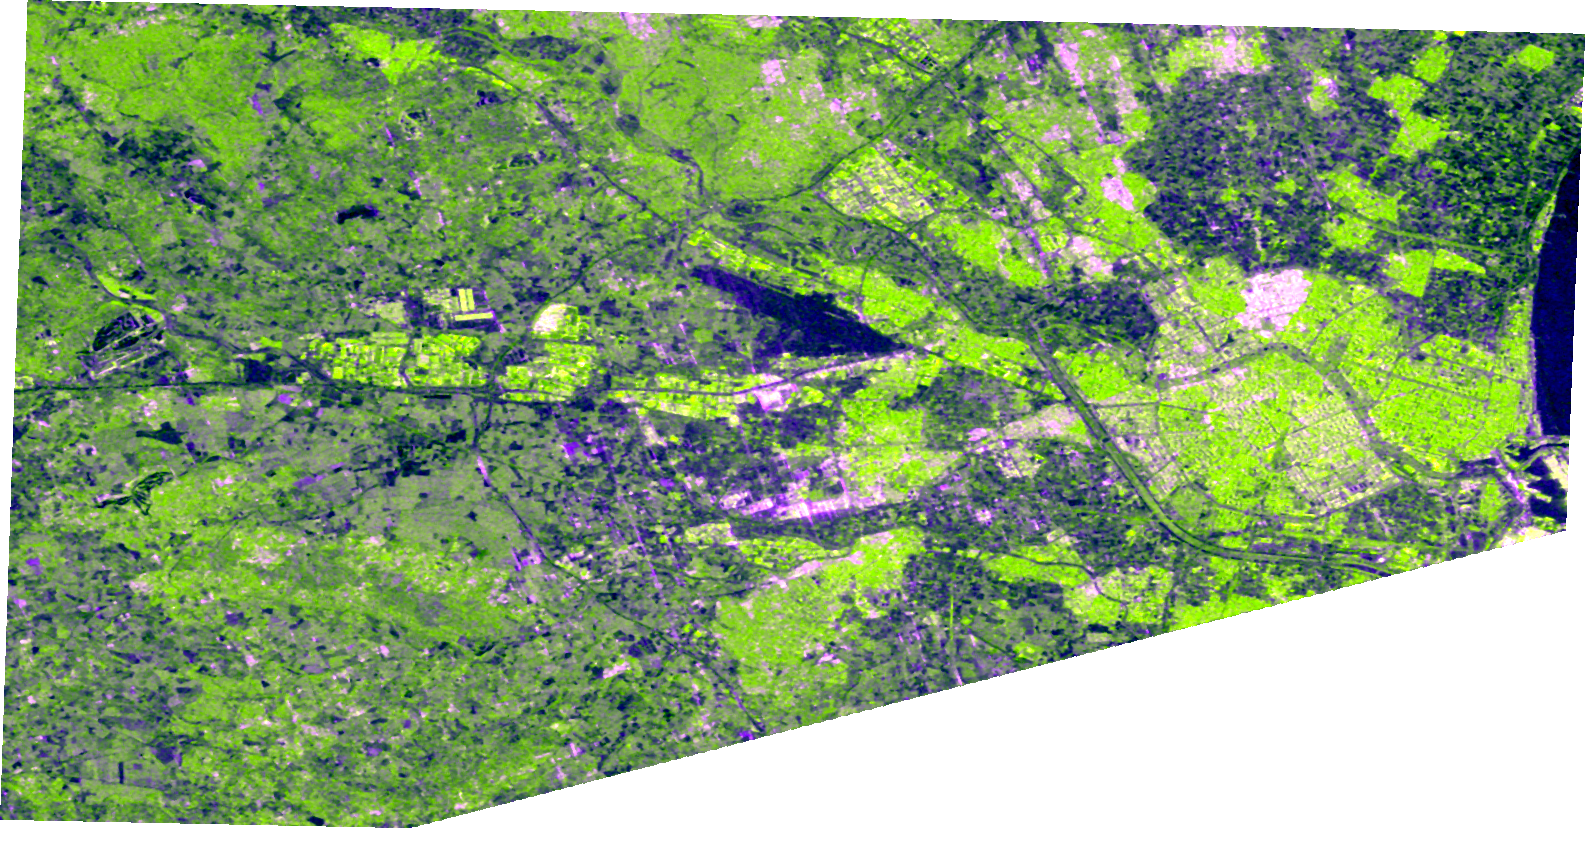
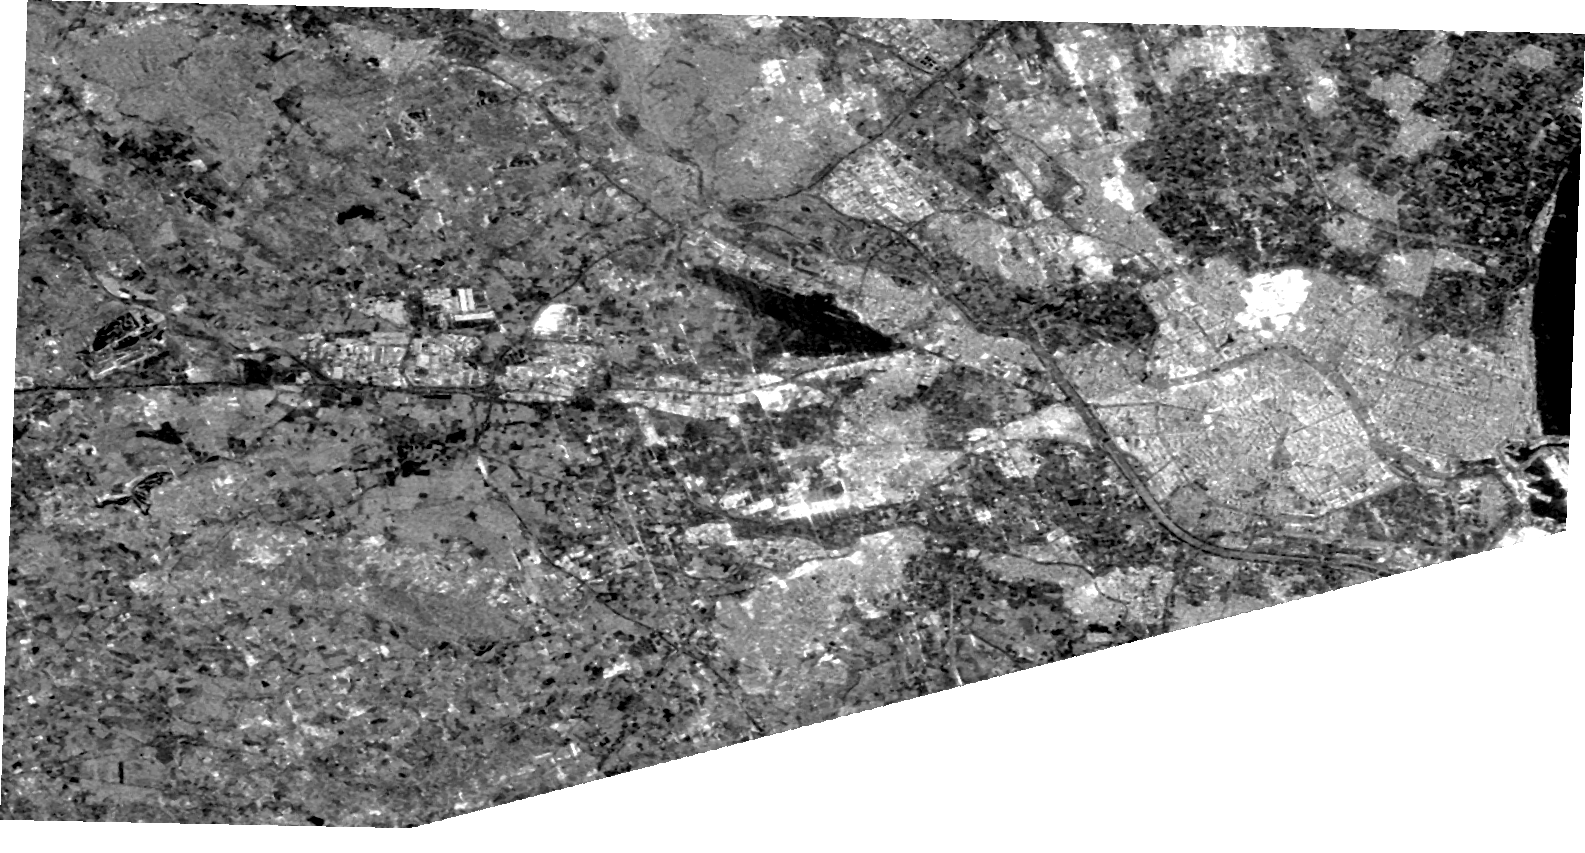
style: monochrome landing page and clearer grayscale radar images

diff --git a/src/components/soc/MissionWelcome.tsx b/src/components/soc/MissionWelcome.tsx
@@ -1,27 +1,17 @@
 'use client';
 
-import {
-  ArrowRight,
-  CloudRain,
-  Crosshair,
-  Lightbulb,
-  MousePointerClick,
-  Orbit,
-  Radar,
-  Satellite,
-  ScanLine,
-  Trophy,
-} from 'lucide-react';
+import { ArrowRight, CloudRain, Lightbulb, MousePointerClick, Orbit, Radar, Satellite, ScanLine, Trophy } from 'lucide-react';
 import { soundFX } from '@/lib/audio';
 
 interface MissionWelcomeProps {
   onBegin: () => void;
 }
 
+// Monochrome landscape style: black, white and greys only. Radar images are monochrome landscapes by nature.
 const STATS = [
-  { icon: Radar, value: 'L-BAND', label: '24 cm radar, sees through clouds and night' },
-  { icon: Orbit, value: '12 DAYS', label: 'NISAR revisits the whole planet' },
-  { icon: Satellite, value: '9 MISSIONS', label: 'From calibration to Earth response' },
+  { icon: Radar, value: 'L-band', label: '24 cm radar, sees through clouds and night' },
+  { icon: Orbit, value: '12 days', label: 'NISAR revisits the whole planet' },
+  { icon: Satellite, value: '9 missions', label: 'From calibration to Earth response' },
 ];
 
 const STEPS = [
@@ -31,21 +21,11 @@ const STEPS = [
   { icon: Trophy, title: 'Earn the flag', text: 'Correct science unlocks the next mission.' },
 ];
 
-function Wave({ className }: { className?: string }) {
-  return (
-    <svg className={className} viewBox="0 0 1200 120" preserveAspectRatio="none" aria-hidden="true">
-      {[0, 1, 2, 3, 4].map((i) => (
-        <path
-          key={i}
-          d={`M0 ${60 + i * 4} C 200 ${10 + i * 6}, 400 ${110 - i * 6}, 600 ${60 + i * 2} S 1000 ${10 + i * 6}, 1200 ${60 - i * 3}`}
-          fill="none"
-          stroke="rgba(56,189,248,0.35)"
-          strokeWidth="1.5"
-        />
-      ))}
-    </svg>
-  );
-}
+const GALLERY = [
+  { src: '/data/merja_zerga/before.png', title: 'Before', date: '25 Oct 2026', text: 'Merja Zerga lagoon, Morocco, end of the dry season.' },
+  { src: '/data/merja_zerga/after.png', title: 'After', date: '6 Nov 2026', text: 'Two days after the first 22 mm of rain.' },
+  { src: '/data/valencia/before.png', title: 'False alarm', date: '23 Oct 2026', text: 'Valencia: the dark strip is the airport runway, not water.' },
+];
 
 export function MissionWelcome({ onBegin }: MissionWelcomeProps) {
   const beginMission = () => {
@@ -54,170 +34,144 @@ export function MissionWelcome({ onBegin }: MissionWelcomeProps) {
   };
 
   return (
-    <main className="min-h-screen w-full cosmic-space-bg bg-[#03060d] text-slate-200">
+    <main className="min-h-screen w-full bg-neutral-950 text-neutral-300">
       {/* Navigation */}
       <header className="mx-auto flex max-w-6xl items-center justify-between px-6 py-6">
         <div className="flex items-center gap-3">
-          <div className="flex h-10 w-10 items-center justify-center rounded-full border border-sky-400/60 text-sky-300">
-            <Satellite className="h-5 w-5" />
-          </div>
-          <span className="text-sm font-black uppercase tracking-[0.3em] text-white">Dancing with the SARs</span>
+          <Satellite className="h-5 w-5 text-white" strokeWidth={1.5} />
+          <span className="text-xs font-medium uppercase tracking-[0.4em] text-white">Dancing with the SARs</span>
         </div>
-        <nav className="hidden items-center gap-8 text-sm text-slate-300 md:flex">
+        <nav className="hidden items-center gap-8 text-xs uppercase tracking-[0.25em] text-neutral-400 md:flex">
           <a href="#mission" className="hover:text-white">Mission</a>
           <a href="#data" className="hover:text-white">Real data</a>
           <a href="#how" className="hover:text-white">How it works</a>
-          <button
-            type="button"
-            onClick={beginMission}
-            className="rounded border border-sky-400/70 px-4 py-1.5 text-sky-200 hover:bg-sky-400/10"
-          >
+          <button type="button" onClick={beginMission} className="border border-white px-4 py-2 text-white hover:bg-white hover:text-black">
             Play
           </button>
         </nav>
       </header>
 
-      {/* Hero */}
-      <section className="relative mx-auto grid max-w-6xl items-center gap-10 px-6 pb-16 pt-6 lg:grid-cols-2 lg:pt-12">
-        <div className="relative z-10">
-          <p className="text-xs font-bold uppercase tracking-[0.35em] text-sky-400">NASA Space Apps 2026 · NISAR</p>
-          <h1 className="mt-5 text-5xl font-black uppercase leading-[1.05] tracking-[0.06em] text-white sm:text-6xl">
-            Read the
-            <br />
-            Earth&apos;s echo
-          </h1>
-          <p className="mt-6 max-w-md text-base leading-relaxed text-slate-300">
-            NISAR, the NASA-ISRO radar satellite, sees the Earth through clouds, smoke and darkness. But radar images are hard to
-            read. In this game, you become an Earth detective: compare real radar images, find what changed, and explain why.
-          </p>
-          <button
-            type="button"
-            onClick={beginMission}
-            className="group mt-8 inline-flex items-center gap-3 rounded-md bg-sky-500 px-7 py-3.5 text-sm font-bold uppercase tracking-[0.15em] text-white shadow-[0_0_30px_rgba(14,165,233,0.35)] transition hover:bg-sky-400"
-          >
-            <Crosshair className="h-5 w-5" />
-            Begin mission
-            <ArrowRight className="h-5 w-5 transition-transform group-hover:translate-x-1" />
-          </button>
-        </div>
-
-        {/* "Radar planet": real NISAR image of Merja Zerga inside a glowing sphere */}
-        <div className="relative mx-auto aspect-square w-full max-w-md">
-          <div className="absolute inset-0 rounded-full bg-sky-500/20 blur-3xl" />
-          <div className="relative h-full w-full overflow-hidden rounded-full border border-sky-400/40 shadow-[0_0_80px_rgba(56,189,248,0.35)]">
-            {/* eslint-disable-next-line @next/next/no-img-element */}
-            <img src="/data/merja_zerga/after.png" alt="NISAR radar image of Merja Zerga, Morocco" className="h-full w-full scale-125 object-cover" />
-            <div className="absolute inset-0 rounded-full bg-[radial-gradient(circle_at_30%_30%,transparent_35%,rgba(3,6,13,0.9)_75%)]" />
+      {/* Hero: full-width monochrome radar landscape */}
+      <section className="relative mx-auto max-w-6xl px-6">
+        <div className="relative overflow-hidden">
+          {/* eslint-disable-next-line @next/next/no-img-element */}
+          <img
+            src="/data/merja_zerga/after.png"
+            alt="NISAR radar landscape of Merja Zerga, Morocco"
+            className="h-[70vh] min-h-[420px] w-full object-cover grayscale"
+          />
+          <div className="absolute inset-0 bg-gradient-to-r from-neutral-950 via-neutral-950/70 to-transparent" />
+          <div className="absolute inset-0 bg-gradient-to-t from-neutral-950 via-transparent to-transparent" />
+          <div className="absolute inset-0 flex flex-col justify-center px-6 sm:px-12">
+            <p className="text-[11px] uppercase tracking-[0.45em] text-neutral-400">NASA Space Apps 2026 · NISAR</p>
+            <h1 className="mt-6 text-5xl font-light uppercase leading-[1.05] tracking-[0.12em] text-white sm:text-7xl">
+              Read the
+              <br />
+              <span className="font-semibold">Earth&apos;s echo</span>
+            </h1>
+            <p className="mt-6 max-w-md text-sm leading-relaxed text-neutral-300 sm:text-base">
+              NISAR, the NASA-ISRO radar satellite, sees the Earth through clouds, smoke and darkness. Radar images are hard to
+              read. In this game, you become an Earth detective: compare real radar images, find what changed, and explain why.
+            </p>
+            <button
+              type="button"
+              onClick={beginMission}
+              className="group mt-9 inline-flex w-fit items-center gap-3 bg-white px-7 py-3.5 text-xs font-semibold uppercase tracking-[0.3em] text-black hover:bg-neutral-200"
+            >
+              Begin mission
+              <ArrowRight className="h-4 w-4 transition-transform group-hover:translate-x-1" />
+            </button>
           </div>
-          <span className="absolute bottom-4 left-1/2 -translate-x-1/2 whitespace-nowrap rounded-full border border-sky-400/40 bg-[#03060d]/80 px-3 py-1 text-[10px] uppercase tracking-[0.2em] text-sky-300">
-            Real NISAR data · Merja Zerga, Morocco
+          <span className="absolute bottom-4 right-4 text-[10px] uppercase tracking-[0.3em] text-neutral-500">
+            Real NISAR L-band image · Merja Zerga, Morocco
           </span>
         </div>
       </section>
 
-      {/* Stat cards */}
-      <section className="relative">
-        <Wave className="absolute inset-x-0 top-1/2 h-24 w-full -translate-y-1/2" />
-        <div className="relative mx-auto grid max-w-6xl gap-5 px-6 sm:grid-cols-3">
+      {/* Stats */}
+      <section className="mx-auto max-w-6xl px-6">
+        <div className="grid gap-px border-y border-neutral-800 bg-neutral-800 sm:grid-cols-3">
           {STATS.map(({ icon: Icon, value, label }) => (
-            <div key={value} className="rounded-lg border border-sky-900/60 bg-[#071226]/90 px-6 py-8 text-center">
-              <Icon className="mx-auto h-10 w-10 text-sky-400" strokeWidth={1.2} />
-              <p className="mt-4 text-xl font-black uppercase tracking-[0.15em] text-white">{value}</p>
-              <p className="mt-2 text-sm text-slate-400">{label}</p>
+            <div key={value} className="bg-neutral-950 px-6 py-10 text-center">
+              <Icon className="mx-auto h-7 w-7 text-neutral-400" strokeWidth={1.2} />
+              <p className="mt-4 text-lg font-light uppercase tracking-[0.3em] text-white">{value}</p>
+              <p className="mt-2 text-xs text-neutral-500">{label}</p>
             </div>
           ))}
         </div>
       </section>
 
       {/* Mission */}
-      <section id="mission" className="mx-auto grid max-w-6xl items-center gap-10 px-6 py-20 lg:grid-cols-2">
-        <div>
-          <p className="text-xs font-bold uppercase tracking-[0.3em] text-sky-400">— Our mission</p>
-          <h2 className="mt-3 text-4xl font-black uppercase tracking-[0.06em] text-white">Learn by investigating</h2>
-          <p className="mt-5 max-w-md leading-relaxed text-slate-300">
-            NISAR maps the whole planet every 12 days, but very few people know how to read radar. Our game turns that skill into
-            missions: floods, wetlands, fires and ground motion. Players learn the physics, not just the answer.
-          </p>
-          <button
-            type="button"
-            onClick={beginMission}
-            className="mt-7 rounded-md bg-sky-500 px-6 py-3 text-sm font-bold uppercase tracking-[0.15em] text-white hover:bg-sky-400"
-          >
-            Start training
-          </button>
-        </div>
-        <div className="relative overflow-hidden rounded-lg border border-sky-900/60">
-          {/* eslint-disable-next-line @next/next/no-img-element */}
-          <img src="/data/valencia/before.png" alt="NISAR radar image of Valencia, Spain" className="h-72 w-full object-cover" />
-          {/* eslint-disable-next-line @next/next/no-img-element */}
-          <img src="/data/valencia/water.png" alt="" className="absolute inset-0 h-72 w-full object-cover" />
-          <span className="absolute bottom-3 left-3 rounded bg-[#03060d]/80 px-3 py-1 text-xs text-slate-200">
-            Valencia: the AI saw &quot;water&quot;… it was the airport runway
-          </span>
-        </div>
-      </section>
-
-      <Wave className="h-20 w-full" />
-
-      {/* Real data */}
-      <section id="data" className="mx-auto max-w-6xl px-6 py-16">
-        <p className="text-xs font-bold uppercase tracking-[0.3em] text-sky-400">— Real data</p>
-        <h2 className="mt-3 text-4xl font-black uppercase tracking-[0.06em] text-white">Before. After. Why?</h2>
-        <div className="mt-8 grid gap-5 md:grid-cols-3">
-          {[
-            { src: '/data/merja_zerga/before.png', title: 'Before · 25 Oct 2026', text: 'Merja Zerga lagoon at the end of the dry season.' },
-            { src: '/data/merja_zerga/after.png', title: 'After · 6 Nov 2026', text: 'Two days after the first 22 mm of rain.' },
-            { src: '/data/merja_zerga/change.png', title: 'What changed', text: 'Red = brighter: wet soil reflects more radar.' },
-          ].map(({ src, title, text }) => (
-            <div key={title} className="overflow-hidden rounded-lg border border-sky-900/60 bg-[#071226]/90">
-              {/* eslint-disable-next-line @next/next/no-img-element */}
-              <img src={src} alt={title} className="h-48 w-full bg-black object-cover" />
-              <div className="p-4">
-                <p className="font-bold uppercase tracking-[0.1em] text-white">{title}</p>
-                <p className="mt-1 text-sm text-slate-400">{text}</p>
-              </div>
-            </div>
-          ))}
-        </div>
-        <p className="mt-5 flex items-center gap-2 text-sm text-slate-400">
-          <CloudRain className="h-4 w-4 text-sky-400" />
-          Radar shows what changed. Weather explains why.
+      <section id="mission" className="mx-auto max-w-6xl px-6 py-24">
+        <p className="text-[11px] uppercase tracking-[0.45em] text-neutral-500">Our mission</p>
+        <h2 className="mt-4 max-w-2xl text-3xl font-light uppercase tracking-[0.12em] text-white sm:text-4xl">
+          Learn to read radar by investigating
+        </h2>
+        <p className="mt-6 max-w-2xl leading-relaxed text-neutral-400">
+          NISAR maps the whole planet every 12 days, but very few people know how to read radar. Our game turns that skill into
+          missions: floods, wetlands, fires and ground motion. Players learn the physics, not just the answer.
         </p>
       </section>
 
+      {/* Real data gallery */}
+      <section id="data" className="mx-auto max-w-6xl px-6 pb-24">
+        <div className="flex items-end justify-between border-b border-neutral-800 pb-4">
+          <h2 className="text-xl font-light uppercase tracking-[0.3em] text-white">Before. After. Why?</h2>
+          <p className="hidden items-center gap-2 text-xs text-neutral-500 sm:flex">
+            <CloudRain className="h-4 w-4" />
+            Radar shows what changed. Weather explains why.
+          </p>
+        </div>
+        <div className="mt-8 grid gap-6 md:grid-cols-3">
+          {GALLERY.map(({ src, title, date, text }) => (
+            <figure key={title}>
+              {/* eslint-disable-next-line @next/next/no-img-element */}
+              <img src={src} alt={`${title}, ${date}`} className="aspect-[4/3] w-full bg-black object-cover grayscale" />
+              <figcaption className="mt-4">
+                <p className="text-xs uppercase tracking-[0.35em] text-white">
+                  {title} <span className="text-neutral-500">· {date}</span>
+                </p>
+                <p className="mt-2 text-sm text-neutral-500">{text}</p>
+              </figcaption>
+            </figure>
+          ))}
+        </div>
+      </section>
+
       {/* How it works */}
-      <section id="how" className="mx-auto max-w-6xl px-6 py-16">
-        <p className="text-xs font-bold uppercase tracking-[0.3em] text-sky-400">— How it works</p>
-        <h2 className="mt-3 text-4xl font-black uppercase tracking-[0.06em] text-white">One mission, four steps</h2>
-        <div className="mt-8 grid gap-5 sm:grid-cols-2 lg:grid-cols-4">
+      <section id="how" className="mx-auto max-w-6xl px-6 pb-24">
+        <h2 className="border-b border-neutral-800 pb-4 text-xl font-light uppercase tracking-[0.3em] text-white">
+          One mission, four steps
+        </h2>
+        <div className="mt-8 grid gap-px bg-neutral-800 sm:grid-cols-2 lg:grid-cols-4">
           {STEPS.map(({ icon: Icon, title, text }, i) => (
-            <div key={title} className="rounded-lg border border-sky-900/60 bg-[#071226]/90 p-6">
-              <div className="flex items-center gap-3">
-                <span className="text-3xl font-black text-sky-400">{i + 1}</span>
-                <Icon className="h-6 w-6 text-sky-300" />
+            <div key={title} className="bg-neutral-950 p-6">
+              <div className="flex items-center gap-3 text-neutral-500">
+                <span className="text-2xl font-light text-white">0{i + 1}</span>
+                <Icon className="h-5 w-5" strokeWidth={1.3} />
               </div>
-              <p className="mt-4 font-bold text-white">{title}</p>
-              <p className="mt-1 text-sm text-slate-400">{text}</p>
+              <p className="mt-5 text-sm uppercase tracking-[0.2em] text-white">{title}</p>
+              <p className="mt-2 text-sm text-neutral-500">{text}</p>
             </div>
           ))}
         </div>
-        <div className="mt-12 text-center">
+        <div className="mt-14 text-center">
           <button
             type="button"
             onClick={beginMission}
-            className="group inline-flex items-center gap-3 rounded-md bg-sky-500 px-8 py-4 text-sm font-bold uppercase tracking-[0.15em] text-white shadow-[0_0_30px_rgba(14,165,233,0.35)] hover:bg-sky-400"
+            className="group inline-flex items-center gap-3 border border-white px-8 py-4 text-xs font-semibold uppercase tracking-[0.3em] text-white hover:bg-white hover:text-black"
           >
             Begin mission
-            <ArrowRight className="h-5 w-5 transition-transform group-hover:translate-x-1" />
+            <ArrowRight className="h-4 w-4 transition-transform group-hover:translate-x-1" />
           </button>
         </div>
       </section>
 
       {/* Footer */}
-      <footer className="border-t border-sky-950/80">
-        <div className="mx-auto flex max-w-6xl flex-col gap-2 px-6 py-6 text-xs text-slate-500 sm:flex-row sm:items-center sm:justify-between">
-          <span>NASA Space Apps Challenge 2026 · Ben Guerir · Dancing with the SARs</span>
-          <span>NISAR data courtesy of NASA/JPL-Caltech and ISRO, distributed by ASF DAAC</span>
+      <footer className="border-t border-neutral-800">
+        <div className="mx-auto flex max-w-6xl flex-col gap-2 px-6 py-6 text-[11px] uppercase tracking-[0.2em] text-neutral-600 sm:flex-row sm:justify-between">
+          <span>NASA Space Apps 2026 · Ben Guerir</span>
+          <span>NISAR data: NASA/JPL-Caltech and ISRO, via ASF DAAC</span>
         </div>
       </footer>
     </main>

diff --git a/scripts/export_display_png.py b/scripts/export_display_png.py
@@ -1,4 +1,4 @@
-"""Export clearer before/after PNGs for the game (false color HH / HV / HH-HV).
+"""Export clearer before/after PNGs for the game (grayscale HH by default, --color for HH / HV / HH-HV).
 
 Same crop and same lat/lon grid as the notebooks, so the bounds in metadata.json stay valid.
 Usage (from the scripts/ folder):  python export_display_png.py [output_dir_root]
@@ -81,14 +81,22 @@ def export_zone(zone, out_root):
 
     for role in ("before", "after"):
         bands = layers[role]
-        rgb = np.dstack([stretch(np.nan_to_num(b, nan=lo), lo, hi) for b, (lo, hi) in zip(bands, limits)])
+        if COLOR:
+            rgb = np.dstack([stretch(np.nan_to_num(b, nan=lo), lo, hi) for b, (lo, hi) in zip(bands, limits)])
+        else:   # grayscale HH: dark = water, bright = buildings (easiest to read)
+            lo, hi = limits[0]
+            gray = stretch(np.nan_to_num(bands[0], nan=lo), lo, hi)
+            rgb = np.dstack([gray, gray, gray])
         rgb = (rgb ** 0.8 * 255).astype("uint8")                       # slight gamma: brighter mid-tones
         alpha = np.where(np.isnan(bands[0]), 0, 255).astype("uint8")
         Image.fromarray(np.dstack([rgb, alpha])).save(f"{out_root}/{zone}/{role}.png")
         print(f"{zone}/{role}.png", rgb.shape[:2])
 
 
+COLOR = "--color" in sys.argv     # default: clear grayscale HH; --color: false color HH / HV / HH-HV
+
 if __name__ == "__main__":
-    out_root = sys.argv[1] if len(sys.argv) > 1 else "../public/data"
+    args = [a for a in sys.argv[1:] if not a.startswith("--")]
+    out_root = args[0] if args else "../public/data"
     for zone in ZONES:
         export_zone(zone, out_root)
